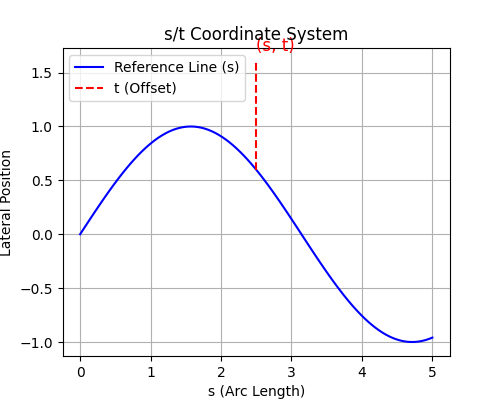
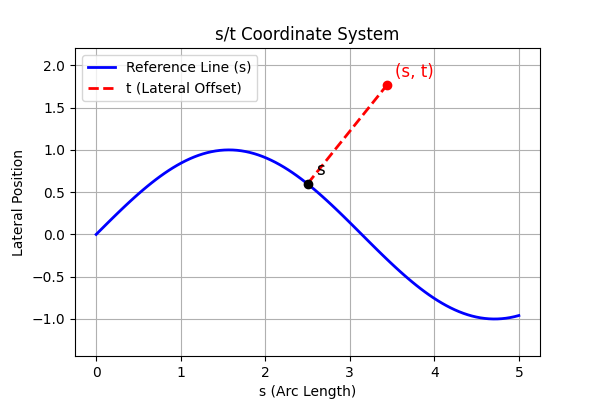
Add s/t coordinate diagram to OpenDRIVE_Details.html

diff --git a/WL-2/OpenDRIVE_Details.html b/WL-2/OpenDRIVE_Details.html
@@ -5,9 +5,11 @@
     <title>OpenDRIVE 几何基元详述</title>
     <style>
         body { font-family: 'Segoe UI', sans-serif; line-height: 1.6; max-width: 800px; margin: 40px auto; padding: 20px; color: #333; }
-        .card { background: #fff; border: 1px solid #ddd; padding: 20px; border-radius: 8px; margin-bottom: 30px; }
+        h1 { color: #2c3e50; }
+        .data-block { background: #282c34; color: #abb2bf; padding: 10px; border-radius: 5px; font-family: monospace; font-size: 0.9em; }
         .diagram { background: #f0f4f8; padding: 20px; border-left: 5px solid #3498db; margin: 20px 0; text-align: center; }
-        img { width: 100%; max-width: 700px; border: 1px solid #ddd; }
+        .card { background: #fff; border: 1px solid #ddd; padding: 20px; border-radius: 8px; margin-bottom: 30px; }
+        img { max-width: 100%; height: auto; border: 1px solid #eee; }
         .back-link { display: block; margin-top: 30px; color: #3498db; }
     </style>
 </head>
@@ -16,8 +18,14 @@
 
     <div class="card">
         <h2>1. 基本概念与特点</h2>
-        <p><strong>基本概念</strong>：OpenDRIVE 通过参数化参考线定义道路结构，所有车道边界、标线和高程信息均相对于参考线进行偏移。</p>
-        <p><strong>核心特点</strong>：参考线中心主义、参数化逻辑、逻辑与物理分离、曲率连续性。</p>
+        <p><strong>基本概念</strong>：OpenDRIVE 是一个基于 XML 的道路网络描述标准，核心在于通过<strong>参数化参考线 (Reference Line)</strong> 来定义道路结构。</p>
+        <p><strong>核心特点</strong>：</p>
+        <ul>
+            <li><strong>参考线中心主义</strong>：所有车道边界、标线和高程信息均相对于参考线进行偏移。</li>
+            <li><strong>参数化逻辑</strong>：几何形状由数学函数定义。</li>
+            <li><strong>逻辑与物理分离</strong>：描述道路的逻辑连通性，同时精确还原物理几何轨迹。</li>
+            <li><strong>曲率连续性</strong>：确保仿真中的车辆动力学真实性。</li>
+        </ul>
     </div>
 
     <h1>2. 几何基元 (Geometry Primitives)</h1>
@@ -27,17 +35,24 @@
         </div>
         <p>OpenDRIVE 定义了多种几何基元，这些基元不仅决定了物理轨迹，还决定了车辆转向控制的动力学逻辑 (Δα/Δt):</p>
         <ul>
-            <li><strong>(Straight) Lines</strong>: Δα/Δt = 0。车辆保持当前方向，转向轮角度保持不变。</li>
-            <li><strong>Spirals (螺旋线)</strong>: Δα/Δt = x°。转向轮均匀转动，用于实现从直线到曲线的平滑过渡，避免向心力突变。</li>
+            <li><strong>(Straight) Lines</strong>: Δα/Δt = 0。车辆保持直线行驶，方向盘角度恒定。</li>
+            <li><strong>Spirals (螺旋线)</strong>: Δα/Δt = x°。转向轮均匀转动，用于实现从直线到弯道的平滑过渡。</li>
             <li><strong>Arcs (圆弧)</strong>: Δα/Δt = 0。转向轮角度固定，形成恒定曲率的圆周轨迹。</li>
-            <li><strong>Cubic Polynomials (三次多项式)</strong>: 已弃用 (Deprecated)。</li>
             <li><strong>Parametric Cubic Polynomials</strong>: Δα/Δt = f(x°)。转向控制随函数动态变化，适用于复杂轨迹跟踪。</li>
         </ul>
     </div>
 
     <h1>3. s/t 坐标系 (s/t Coordinate System)</h1>
     <div class="card">
-        <p><strong>s/t 坐标系</strong>是 OpenDRIVE 的核心坐标系统：s 为沿中心线的弧长，t 为横向偏移量。</p>
+        <div class="diagram">
+            <img src="st_coordinate.png" alt="s/t Coordinate System">
+        </div>
+        <p><strong>s/t 坐标系</strong>是 OpenDRIVE 的核心坐标系统，用于精确定位道路上的点或物体：</p>
+        <ul>
+            <li><strong>s (弧长)</strong>: 沿参考线中心线测量的纵向距离。</li>
+            <li><strong>t (横向偏移)</strong>: 垂直于参考线中心线的横向距离。</li>
+        </ul>
+        <p><strong>应用场景</strong>：s/t 系统简化了车道属性定义（如 <code>laneOffset</code>），使得物体（如交通标志）可以通过相对于参考线的 <code>(s, t)</code> 偏移量轻松放置，无需频繁计算全局地理坐标。</p>
     </div>
 
     <a href="Road_Geometry.html" class="back-link">&larr; 返回首页</a>